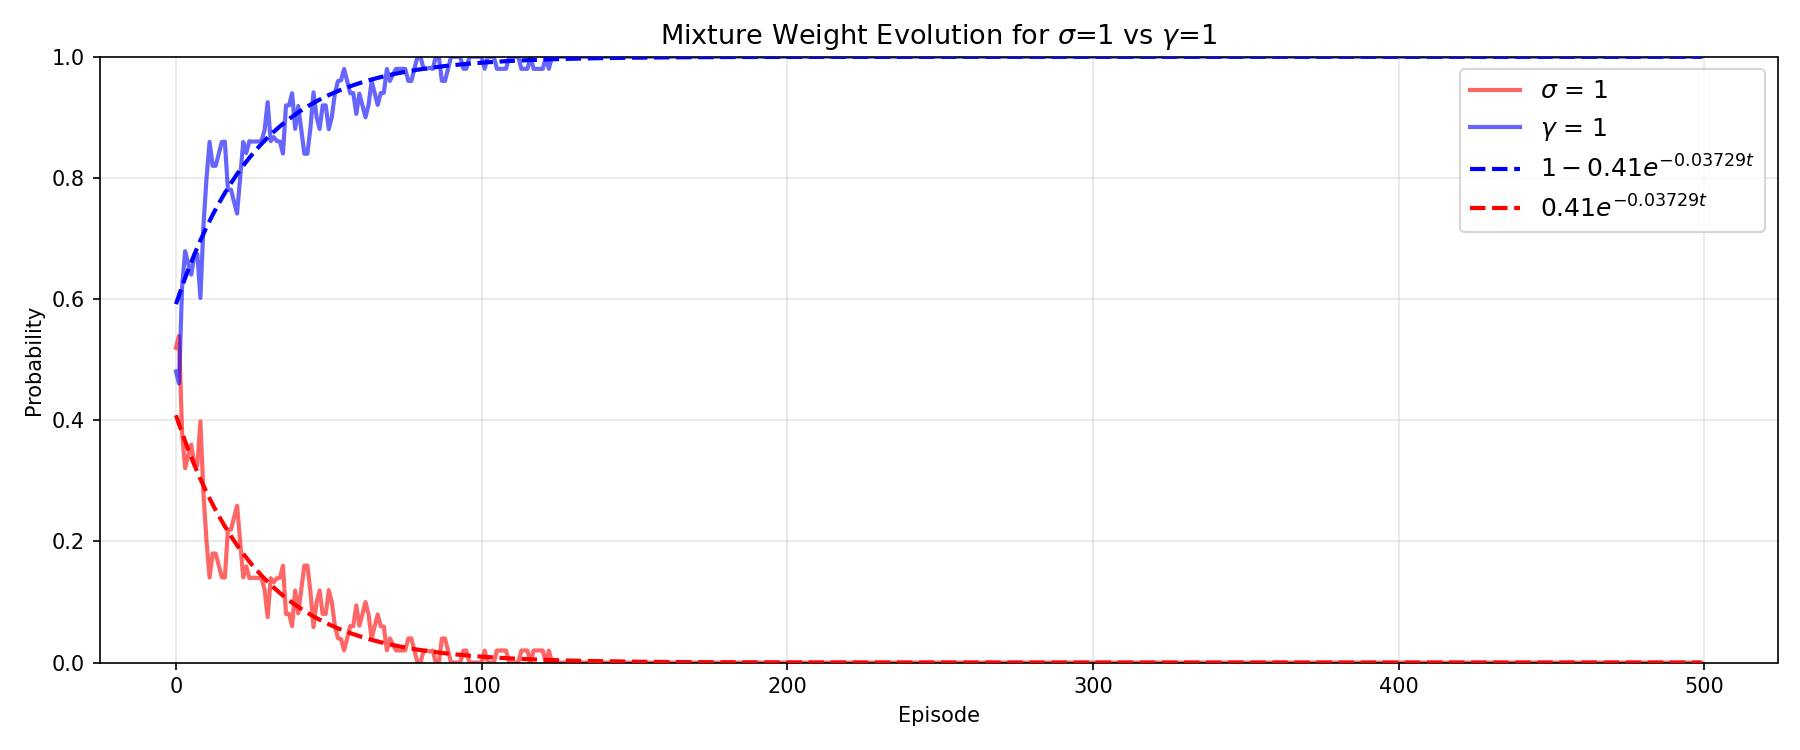
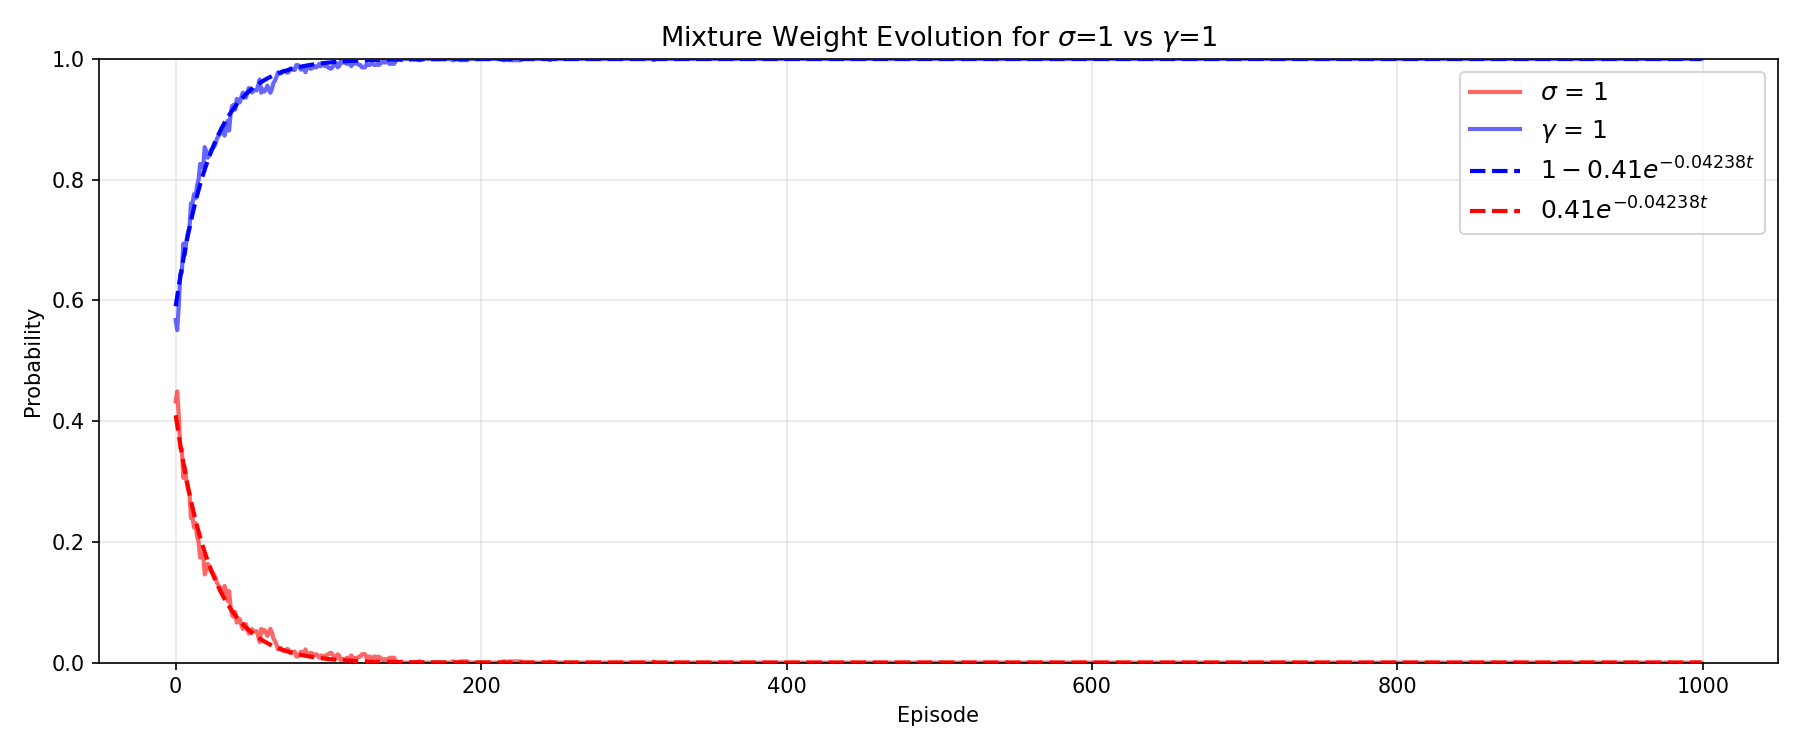
18th

diff --git a/mean_steps.py b/mean_steps.py
@@ -17,19 +17,33 @@ def folded_cauchy_iqr(gamma):
 
 # ── Data from notebook ──
 # Gaussian–Gaussian mixtures (σ₁ = 1 fixed, σ₂ varies)
+# gg_data = [
+#     {"sigma2": 2, "mean_steps": 36.70},
+#     {"sigma2": 3, "mean_steps": 27.37},
+#     {"sigma2": 4, "mean_steps": 22.44},
+#     {"sigma2": 5, "mean_steps": 19.88},
+# ]
+
+# # Gaussian–Cauchy mixtures (γ = 1 fixed, Gaussian σ varies)
+# gc_data = [
+#     {"sigma": 1.0,      "gamma": 1, "mean_steps": 33.86},
+#     {"sigma": 1.482602, "gamma": 1, "mean_steps": 33.33},
+#     {"sigma": 2.4045,   "gamma": 1, "mean_steps": 33.36},
+# ]
+
 gg_data = [
-    {"sigma2": 2, "mean_steps": 36.70},
-    {"sigma2": 3, "mean_steps": 27.37},
-    {"sigma2": 4, "mean_steps": 22.44},
-    {"sigma2": 5, "mean_steps": 19.88},
+    {"sigma2": 2, "mean_steps": 96.79},
+    {"sigma2": 3, "mean_steps": 38.03},
+    {"sigma2": 4, "mean_steps": 29.82},
+    {"sigma2": 5, "mean_steps": 28.46},
 ]
 
-# Gaussian–Cauchy mixtures (γ = 1 fixed, Gaussian σ varies)
+
 gc_data = [
-    {"sigma": 1.0,      "gamma": 1, "mean_steps": 33.86},
-    {"sigma": 1.482602, "gamma": 1, "mean_steps": 33.33},
-    {"sigma": 2.4045,   "gamma": 1, "mean_steps": 33.36},
+    {"sigma": 1.0,      "gamma": 1, "mean_steps": 42.01},
+    {"sigma": 2.4045,   "gamma": 1, "mean_steps": 42.03},
 ]
+
 
 # IQR *difference* between the two mixture components
 SIGMA1 = 1  # fixed small-step Gaussian in all mixtures

diff --git a/time_Gaussian_Gaussian_plots.py b/time_Gaussian_Gaussian_plots.py
@@ -21,7 +21,7 @@ sarsa_agent = _mod.sarsa_agent
 # ============================================================
 # CONFIGURATION
 # ============================================================
-N_SEEDS = 30         # Number of random seeds to train
+N_SEEDS = 500         # Number of random seeds to train
 
 # Environment / agent hyper-parameters
 ENV_SIZE = 100
@@ -31,7 +31,7 @@ LR = 0.05
 GAMMA = 0.95
 EPISODES = 1000
 STEPS_PER_EPISODE = 10000
-AGENT_STD = [1, ]
+AGENT_STD = [1, 1]
 
 # Whether to include the closeness reward curve
 HAVE_CLOSENESS_REWARD = True

diff --git a/time_Gaussian_Cauchy_plots.py b/time_Gaussian_Cauchy_plots.py
@@ -19,7 +19,7 @@ sarsa_agent = _mod.sarsa_agent
 # ============================================================
 # CONFIGURATION
 # ============================================================
-N_SEEDS = 1000         # Number of random seeds to train
+N_SEEDS = 500         # Number of random seeds to train
 
 # Environment / agent hyper-parameters
 ENV_SIZE = 100
@@ -29,7 +29,7 @@ LR = 0.05
 GAMMA = 0.95
 EPISODES = 1000
 STEPS_PER_EPISODE = 10000
-AGENT_STD = [2.405, 1]
+AGENT_STD = [1, 1]
 
 
 # Whether to include the closeness reward curve
